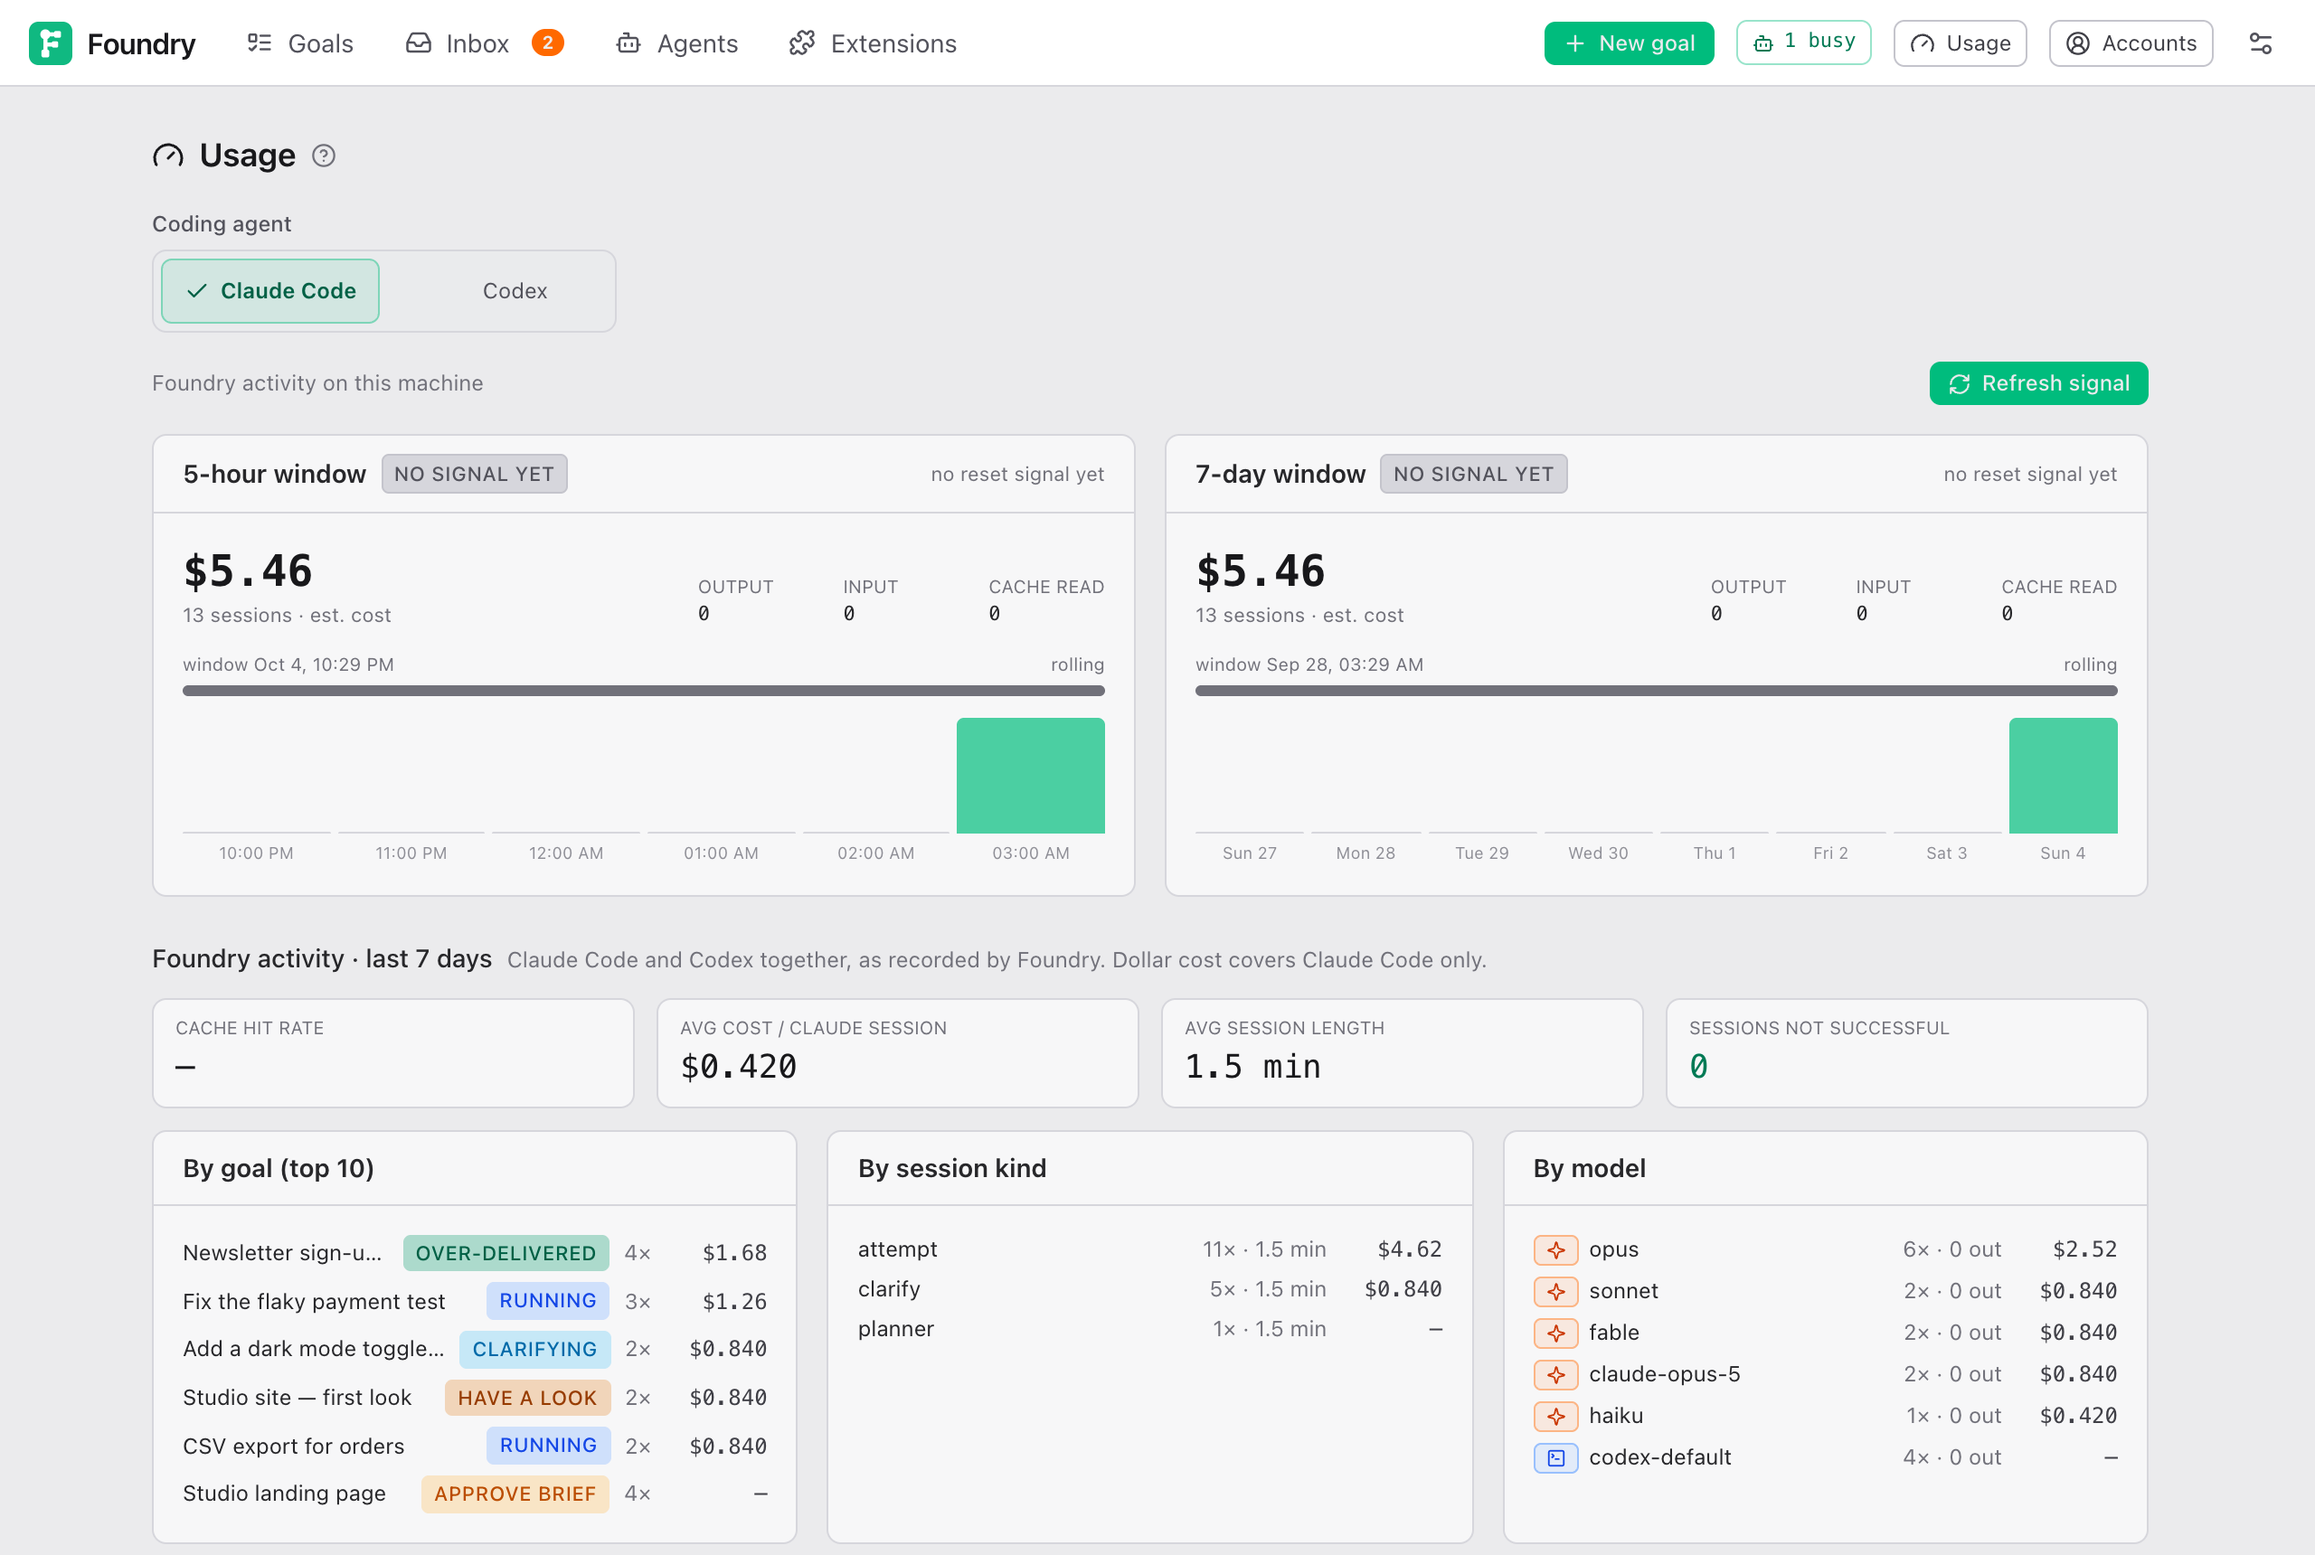
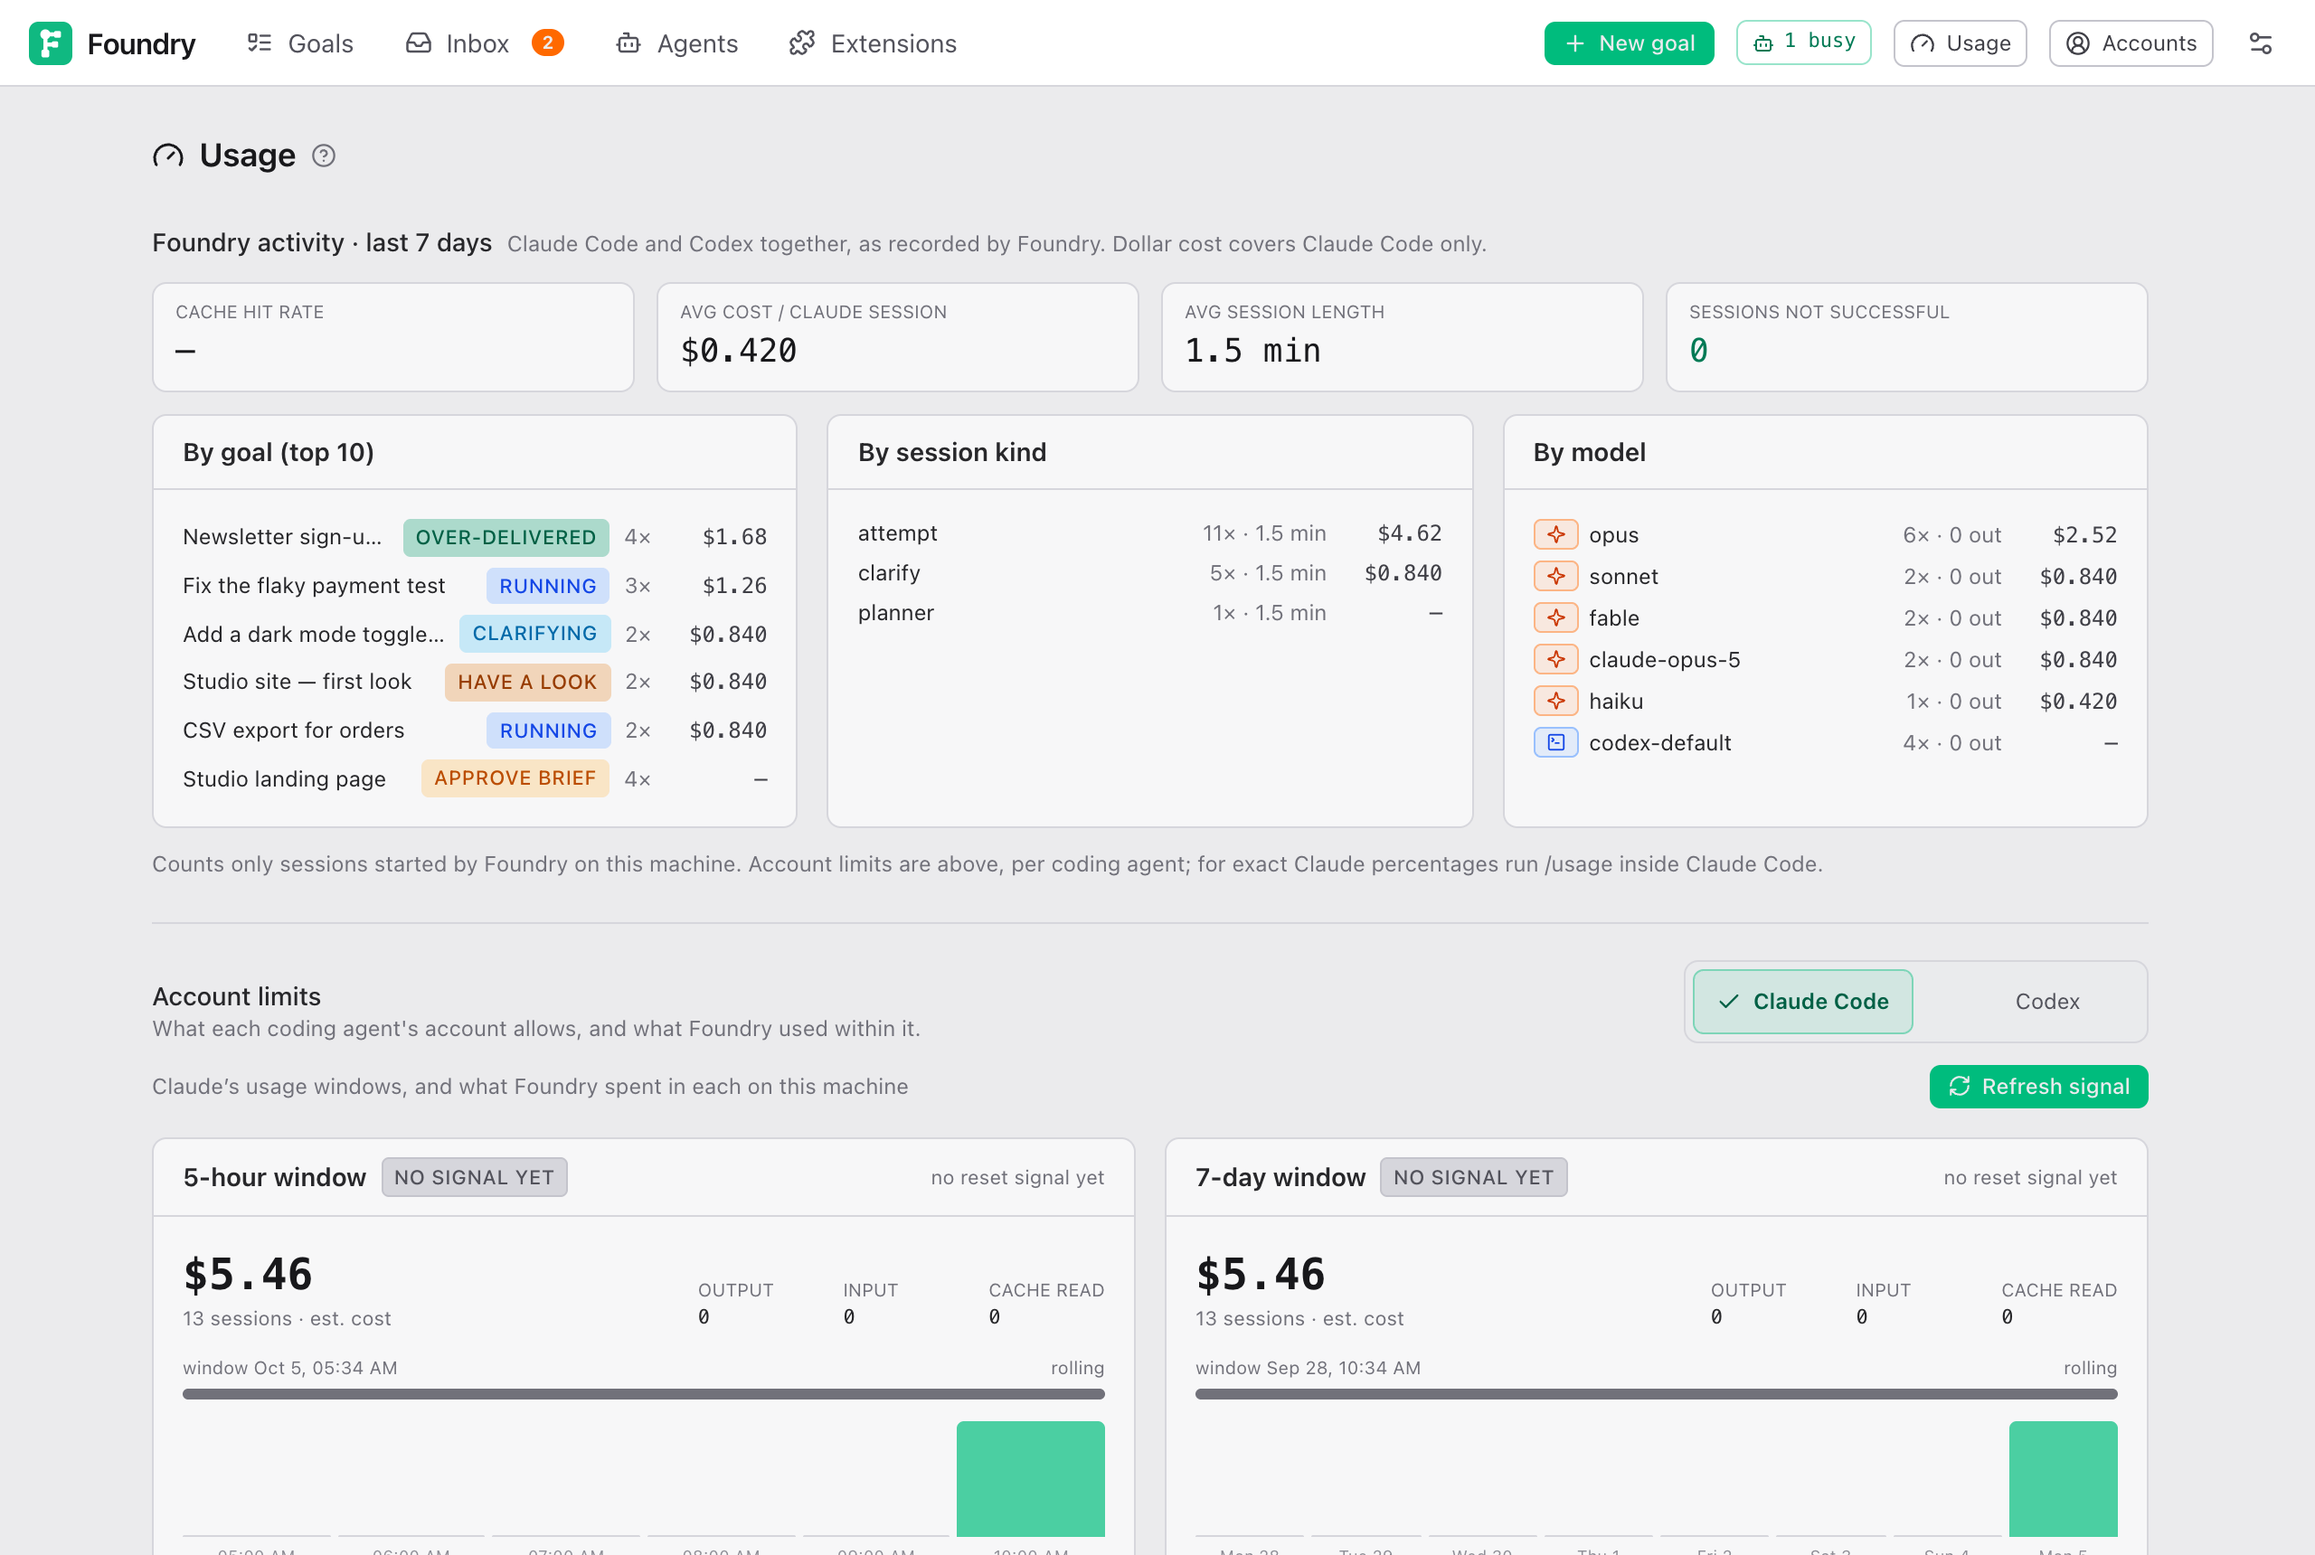
fix(web): keep the shared usage numbers still when switching coding agents
The shared Foundry activity section sat below the per-agent account limits, whose height differs between the two agents, so it jumped whenever the selector changed. The page now opens with the shared section, then Account limits with the selector beside its heading, so switching only changes what is below it; a paused agent's banner moves to the top, where it shows whichever agent is selected.

diff --git a/apps/web/src/pages/UsagePage.tsx b/apps/web/src/pages/UsagePage.tsx
@@ -8,6 +8,7 @@ import { api, type AgentProvider, type Usage } from '../api.ts';
 import { CodexQuotaCard } from '../components/CodexQuotaCard.tsx';
 import { useLive } from '../store.ts';
 import { Badge, Button, Card, Empty, cn, fmtUsd } from '../ui.tsx';
+import { UsagePausedBanner } from '../components/UsageBanner.tsx';
 import { HelpLink } from './HelpPage.tsx';
 import { ProviderBadge } from './agents/rows.tsx';
 
@@ -23,13 +24,23 @@ const fmtDur = (ms: number | null) => (ms == null ? '—' : ms < 1000 ? `${ms} m
 export function UsagePage() {
   const [query, setQuery] = useSearchParams();
   const provider: AgentProvider = query.get('provider') === 'codex' ? 'codex' : 'claude';
-  return <div className="max-w-6xl mx-auto p-3 sm:p-4 md:p-6 space-y-4">
-    <div className="flex items-center gap-3 flex-wrap">
+  // shared numbers first, so switching the coding agent below moves nothing above it
+  return <div className="max-w-6xl mx-auto p-3 sm:p-4 md:p-6 space-y-6">
+    <div className="space-y-3">
       <h1 className="text-lg font-semibold flex items-center gap-2"><Gauge size={18} /> Usage <HelpLink to="costs-and-usage" label="What costs money and how to spend less (new tab)" /></h1>
+      <UsagePausedBanner />
     </div>
-    <ProviderSelector value={provider} onChange={(id) => setQuery((current) => { const next = new URLSearchParams(current); next.set('provider', id); return next; }, { replace: true })} />
-    <ProviderUsage key={provider} provider={provider} />
     <FoundryActivity />
+    <section className="space-y-3 border-t border-zinc-800 pt-5" aria-labelledby="account-limits">
+      <div className="flex items-end justify-between gap-3 flex-wrap">
+        <div>
+          <h2 id="account-limits" className="text-sm font-medium text-zinc-200">Account limits</h2>
+          <p className="text-xs text-zinc-500">What each coding agent's account allows, and what Foundry used within it.</p>
+        </div>
+        <ProviderSelector hideLabel value={provider} onChange={(id) => setQuery((current) => { const next = new URLSearchParams(current); next.set('provider', id); return next; }, { replace: true })} />
+      </div>
+      <ProviderUsage key={provider} provider={provider} />
+    </section>
     <MinimaxCard />
   </div>;
 }
@@ -61,7 +72,7 @@ function ProviderUsage({ provider }: { provider: AgentProvider }) {
   return (
     <div className="space-y-4">
       <div className="flex items-center gap-3 flex-wrap">
-        <span className="text-xs text-zinc-500">{provider === 'codex' ? 'Account quota and Foundry activity on this machine' : 'Foundry activity on this machine'}</span>
+        <span className="text-xs text-zinc-500">{provider === 'codex' ? 'The ChatGPT account’s quota, and Foundry’s Codex activity on this machine' : 'Claude’s usage windows, and what Foundry spent in each on this machine'}</span>
         <Button size="sm" variant="primary" className="ml-auto" disabled={busy} onClick={probe} title={provider === 'codex' ? 'Reads native Codex account limits without running inference' : 'Runs one tiny haiku session (~$0.02) to refresh the rate-limit signal'}>
           <RefreshCw size={13} className={cn(busy && 'animate-spin')} /> {provider === 'codex' ? 'Refresh quota' : 'Refresh signal'}
         </Button>
@@ -99,7 +110,7 @@ function FoundryActivity() {
   const m = mergeActivity(both);
   const cost = (value: number | null) => (value == null ? '—' : fmtUsd(value));
   return (
-    <section className="space-y-3 pt-2" aria-labelledby="foundry-activity">
+    <section className="space-y-3" aria-labelledby="foundry-activity">
       <div className="flex items-baseline gap-2 flex-wrap">
         <h2 id="foundry-activity" className="text-sm font-medium text-zinc-200">Foundry activity · last 7 days</h2>
         <span className="text-xs text-zinc-500">Claude Code and Codex together, as recorded by Foundry. Dollar cost covers Claude Code only.</span>

diff --git a/docs/guide/costs-and-usage.zh.md b/docs/guide/costs-and-usage.zh.md
@@ -10,7 +10,7 @@
 
 不预设每个账户都有「五小时＋每周」两种限制。只有周限额的账户只显示 **Weekly limit**；两者都有的账户显示 **5-hour limit** 和 **Weekly limit**。名称根据原生回传的时长判断，primary 或 secondary 都可能是周限额。其他时长按实际数据显示，未知时长保持未知；未回传的窗口不显示、不补零。多个额度分组保持独立，顶栏统一显示 **Usage**，悬停提示分别列出 Claude 活动和 Codex 账户额度；例如两个分组均为周限额时显示 **2 weekly limits**。某个编码智能体暂停或受限、或 MiniMax 额度偏低时显示琥珀色圆点。点击进入 Usage 后再分别查看两种编码智能体。
 
-**Coding agent**（编码智能体）选择器只切换页面上方的部分：该编码智能体的账户额度（Codex 还有它的 **Foundry activity · last 7 days** 卡片）。下方共享的 **Foundry activity · last 7 days** 区块同时涵盖两种编码智能体，因为数据来自 Foundry 自己的会话记录，而不是任何一个账户：缓存命中率、每个 Claude 会话的平均费用、平均会话时长、未成功的会话数，以及 **By goal**、**By session kind** 和 **By model**（每个模型带有它所属编码智能体的图标）。只统计 Foundry 启动的会话。美元费用只包括 Claude Code，Codex 的行显示 —。Codex 活动卡片只表示本机最近七天的活动统计，与账户额度分开，不显示配额状态或重置倒计时。当前适配器不提供美元费用、模型回合数及技能调用记录；“不可用”不代表免费或未使用。
+页面先显示共享的 **Foundry activity · last 7 days** 区块，再显示 **Account limits**；它旁边的编码智能体选择器只切换下面的内容：该编码智能体的账户额度（Codex 还有它自己的 **Foundry activity · last 7 days** 卡片），所以切换时上面的内容不会移动。无论选哪个，被暂停的编码智能体都会在页面顶部显示横幅。共享区块同时涵盖两种编码智能体，因为数据来自 Foundry 自己的会话记录，而不是任何一个账户：缓存命中率、每个 Claude 会话的平均费用、平均会话时长、未成功的会话数，以及 **By goal**、**By session kind** 和 **By model**（每个模型带有它所属编码智能体的图标）。只统计 Foundry 启动的会话。美元费用只包括 Claude Code，Codex 的行显示 —。Codex 活动卡片只表示本机最近七天的活动统计，与账户额度分开，不显示配额状态或重置倒计时。当前适配器不提供美元费用、模型回合数及技能调用记录；“不可用”不代表免费或未使用。
 
 Codex 在创建、批准 Brief、提高预算时都会移除美元上限。超时、工具调用次数、尝试次数和并发限制仍然有效。回合上限在 Codex 中限制工具调用次数。检测到限流只暂停对应编码智能体；没有重置时间信号时，五分钟后重试，不代表账户额度已恢复。
 

diff --git a/docs/guide/costs-and-usage.md b/docs/guide/costs-and-usage.md
@@ -10,7 +10,7 @@
 
 There is no fixed five-hour/weekly pair. A weekly-only account shows only **Weekly limit**; accounts that report both windows show **5-hour limit** and **Weekly limit**. Names come from the reported duration, regardless of whether Codex calls the slot primary or secondary. Other durations are shown as returned; unknown duration stays unknown. Absent windows are not shown or filled with zero. Multiple quota groups remain separate. The top bar always shows **Usage** for both coding agents. Its tooltip lists Claude activity and Codex account limits separately; several weekly groups appear as **2 weekly limits**, for example. An amber dot flags a paused/blocked coding agent or low MiniMax quota. Open Usage to inspect each coding agent.
 
-The **Coding agent** selector switches only the top of the page: that agent's account limits (and, for Codex, its **Foundry activity · last 7 days** card). Below it, the shared **Foundry activity · last 7 days** section covers both coding agents together, because it comes from Foundry's own session records rather than either account: cache hit rate, average Claude cost per session, average session length, sessions not successful, and **By goal**, **By session kind** and **By model** (each model marked with its coding agent's icon). Counts include only Foundry sessions. Dollar cost covers Claude Code only; Codex rows show —. The Codex activity card is a local reporting period, separate from the account limits. It has no quota status or reset countdown. Dollar cost, turn count and skill-invocation telemetry are unavailable in this adapter; unavailable never means free or unused.
+The page opens with the shared **Foundry activity · last 7 days** section, then **Account limits**, whose coding agent selector switches only what is below it: that agent's account limits (and, for Codex, its own **Foundry activity · last 7 days** card), so switching moves nothing above. A paused coding agent shows a banner at the top either way. The shared section covers both coding agents together, because it comes from Foundry's own session records rather than either account: cache hit rate, average Claude cost per session, average session length, sessions not successful, and **By goal**, **By session kind** and **By model** (each model marked with its coding agent's icon). Counts include only Foundry sessions. Dollar cost covers Claude Code only; Codex rows show —. The Codex activity card is a local reporting period, separate from the account limits. It has no quota status or reset countdown. Dollar cost, turn count and skill-invocation telemetry are unavailable in this adapter; unavailable never means free or unused.
 
 Codex USD caps are removed on creation, Brief approval and budget increases. Timeouts, tool-call allowance, attempts and concurrency remain effective. Its turn-cap setting counts tool calls, not model turns. A detected usage-limit error pauses only that provider; without a reset signal Foundry retries after five minutes, which is not a claim that the account quota has reset.
 
